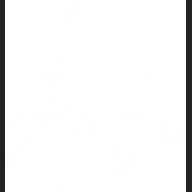
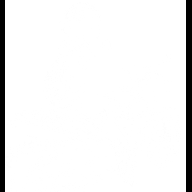
Restore true black site palette

Changed region(s): [[0.9688, 0.0, 1.0, 1.0], [0.0, 0.0, 0.0312, 1.0]]

diff --git a/src/styles/globals.css b/src/styles/globals.css
@@ -27,24 +27,24 @@
 :root {
   --radius: 0.5rem;
 
-  --background: #242322;
+  --background: #000000;
   --foreground: #eee8df;
-  --card: #33312e;
+  --card: #111111;
   --card-foreground: #eee8df;
-  --popover: #33312e;
+  --popover: #111111;
   --popover-foreground: #eee8df;
   --primary: #ffa500;
-  --primary-foreground: #242322;
-  --secondary: #2c2926;
+  --primary-foreground: #000000;
+  --secondary: #111111;
   --secondary-foreground: #eee8df;
-  --muted: #2c2926;
+  --muted: #111111;
   --muted-foreground: #b2aba0;
-  --accent: #2c2926;
+  --accent: #111111;
   --accent-foreground: #ffa500;
   --destructive: #ff5c5c;
-  --destructive-foreground: #242322;
-  --border: #4b4741;
-  --input: #4b4741;
+  --destructive-foreground: #000000;
+  --border: #2f2f2f;
+  --input: #2f2f2f;
   --ring: #ffa500;
 }
 

diff --git a/src/app/(frontend)/about/page.tsx b/src/app/(frontend)/about/page.tsx
@@ -104,9 +104,9 @@ export default function AboutPage() {
             <img
               src={imageUrl("/images/uploads/in_brief_logo.png", 640, "normal")}
               alt=""
-              width={240}
-              height={240}
-              className="h-60 w-60 rounded-xl border border-border object-cover"
+              width={288}
+              height={432}
+              className="h-auto w-72 rounded-xl border border-border"
               loading="eager"
               decoding="async"
             />

diff --git a/src/styles/blog-post.module.css b/src/styles/blog-post.module.css
@@ -1,11 +1,11 @@
 /* The article page, treatment 03 from the layout study: metadata and a section
    index in a rail that stays put, prose in a 68-character column beside it. */
 .page {
-  --void: #242322;
-  --raised: #33312e;
-  --rule: #4b4741;
-  --rule-strong: #817a70;
-  --rule-subtle: #2c2926;
+  --void: #000000;
+  --raised: #111111;
+  --rule: #2f2f2f;
+  --rule-strong: #555555;
+  --rule-subtle: #111111;
   --ink: #eee8df;
   --ink-2: #b2aba0;
   --ink-3: #91897d;

diff --git a/src/styles/blog.module.css b/src/styles/blog.module.css
@@ -2,11 +2,11 @@
    so the two archives read as one place; only the card body differs, because a
    piece needs a title and a summary where a frame needs neither. */
 .page {
-  --void: #242322;
-  --raised: #33312e;
-  --rule: #4b4741;
-  --rule-strong: #817a70;
-  --rule-subtle: #2c2926;
+  --void: #000000;
+  --raised: #111111;
+  --rule: #2f2f2f;
+  --rule-strong: #555555;
+  --rule-subtle: #111111;
   --ink: #eee8df;
   --ink-2: #b2aba0;
   --ink-3: #91897d;

diff --git a/src/styles/redesign-lab.module.css b/src/styles/redesign-lab.module.css
@@ -1,9 +1,9 @@
 .page {
-  --lab-void: #242322;
-  --lab-raised: #33312e;
-  --lab-rule: #4b4741;
-  --lab-rule-strong: #817a70;
-  --lab-rule-subtle: #2c2926;
+  --lab-void: #000000;
+  --lab-raised: #111111;
+  --lab-rule: #2f2f2f;
+  --lab-rule-strong: #555555;
+  --lab-rule-subtle: #111111;
   --lab-ink: #eee8df;
   --lab-ink-secondary: #b2aba0;
   --lab-ink-muted: #91897d;

diff --git a/src/components/site-footer.module.css b/src/components/site-footer.module.css
@@ -3,8 +3,8 @@
   max-width: 1240px;
   margin: 0 auto;
   padding: 1.5rem 0 2rem;
-  border-top: 1px solid #4b4741;
-  background: #242322;
+  border-top: 1px solid #2f2f2f;
+  background: #000000;
   /* 5.28:1, up from the 3.38:1 of #6a645c — this is 10px uppercase mono, the
      smallest text on either page, so it needs the contrast most. */
   color: #91897d;

diff --git a/src/components/masthead.module.css b/src/components/masthead.module.css
@@ -1,8 +1,8 @@
 @import url("https://fonts.googleapis.com/css2?family=IBM+Plex+Mono:wght@400;500&display=swap");
 
 .header {
-  --masthead-background: #242322;
-  --masthead-rule: #4b4741;
+  --masthead-background: #000000;
+  --masthead-rule: #2f2f2f;
   --masthead-ink: #eee8df;
   --masthead-muted: #b2aba0;
   --masthead-accent: #ffa500;

diff --git a/src/styles/photography.module.css b/src/styles/photography.module.css
@@ -1,9 +1,9 @@
 .page {
-  --void: #242322;
-  --raised: #33312e;
-  --rule: #4b4741;
-  --rule-strong: #817a70;
-  --rule-subtle: #2c2926;
+  --void: #000000;
+  --raised: #111111;
+  --rule: #2f2f2f;
+  --rule-strong: #555555;
+  --rule-subtle: #111111;
   --ink: #eee8df;
   --ink-2: #b2aba0;
   --ink-3: #91897d;

diff --git a/src/styles/style.css b/src/styles/style.css
@@ -130,7 +130,7 @@ body {
   font-family: var(--font-body);
   font-size: var(--fontSize-1);
   color: var(--color-text);
-  background-color: #242322;
+    background-color: #000000;
   margin: 0;
   padding: 0;
   overflow-x: hidden;

diff --git a/src/app/(frontend)/layout.tsx b/src/app/(frontend)/layout.tsx
@@ -117,7 +117,7 @@ export const metadata: Metadata = {
 export const viewport: Viewport = {
   width: "device-width",
   initialScale: 1,
-  themeColor: "#242322",
+  themeColor: "#000000",
   colorScheme: "dark",
 }
 
